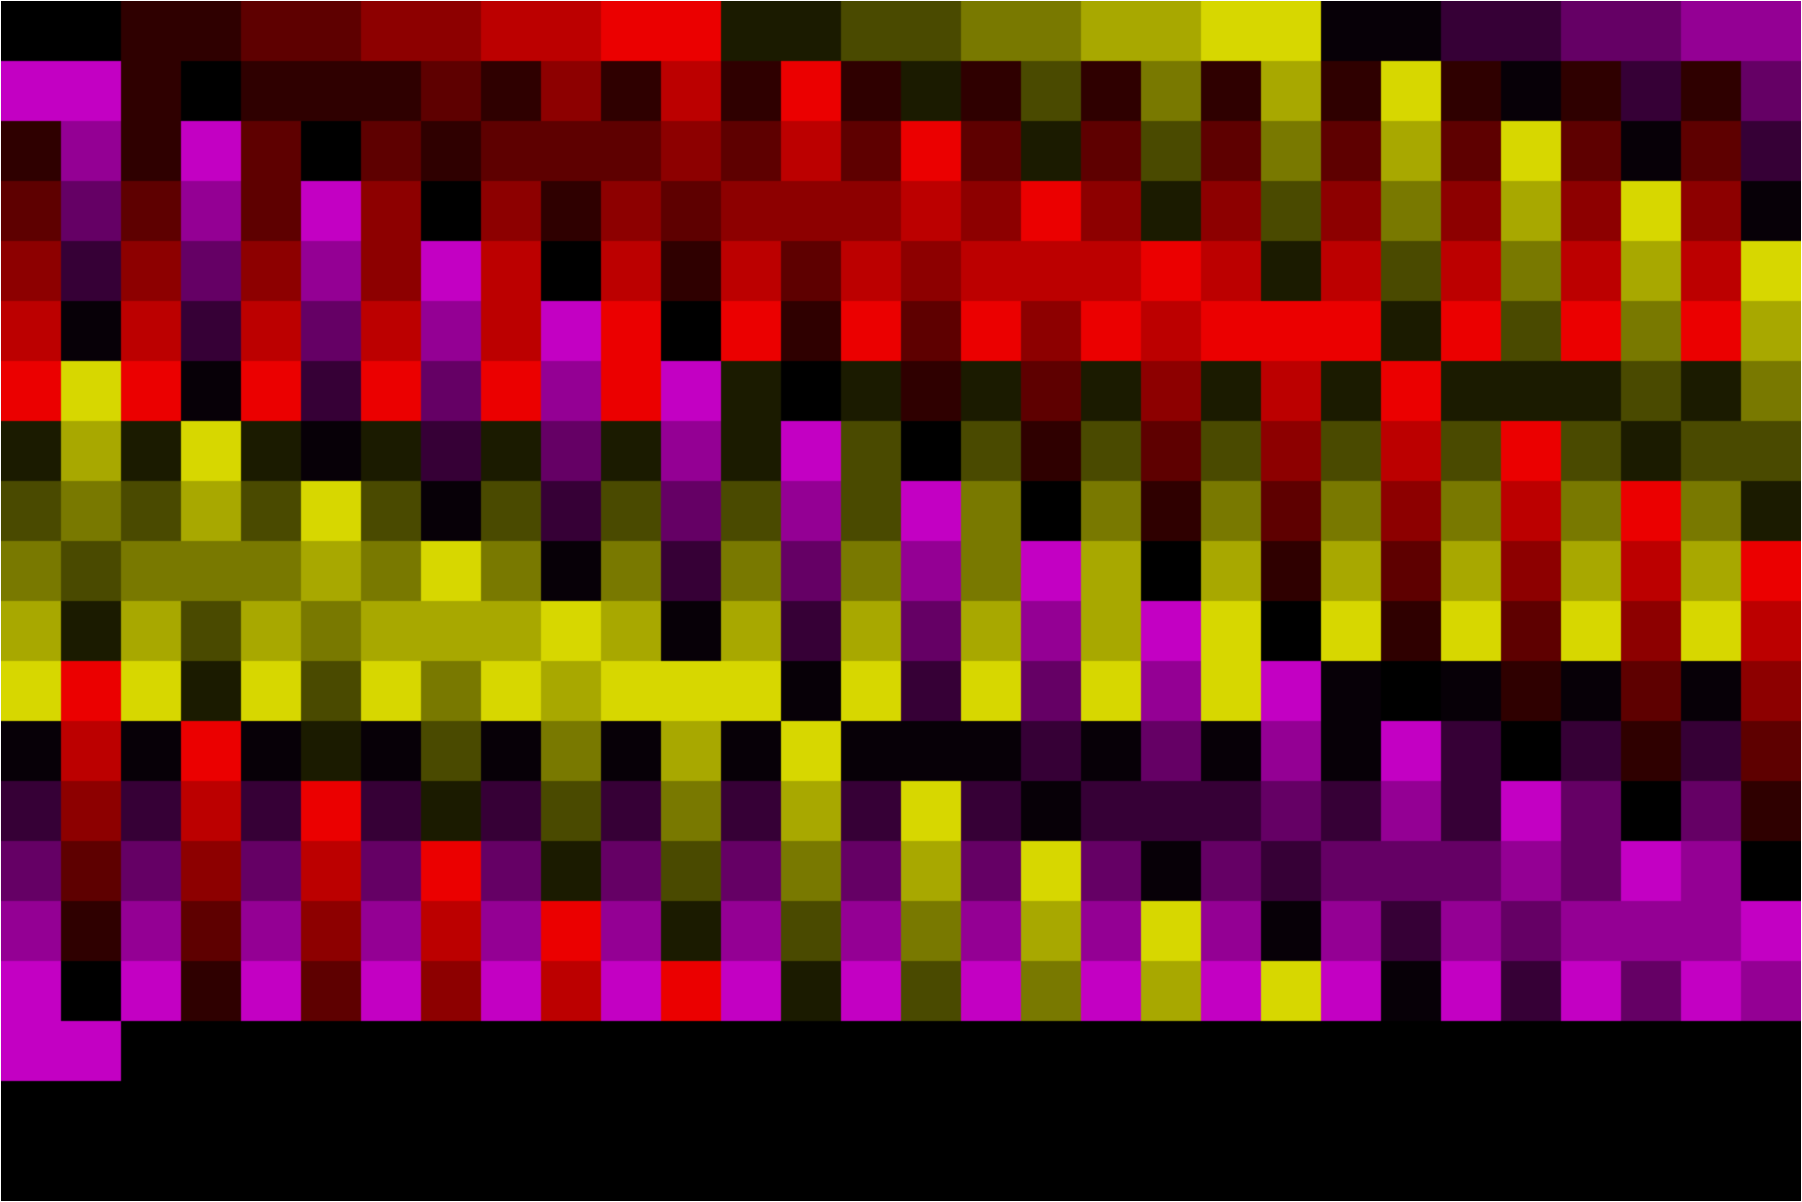
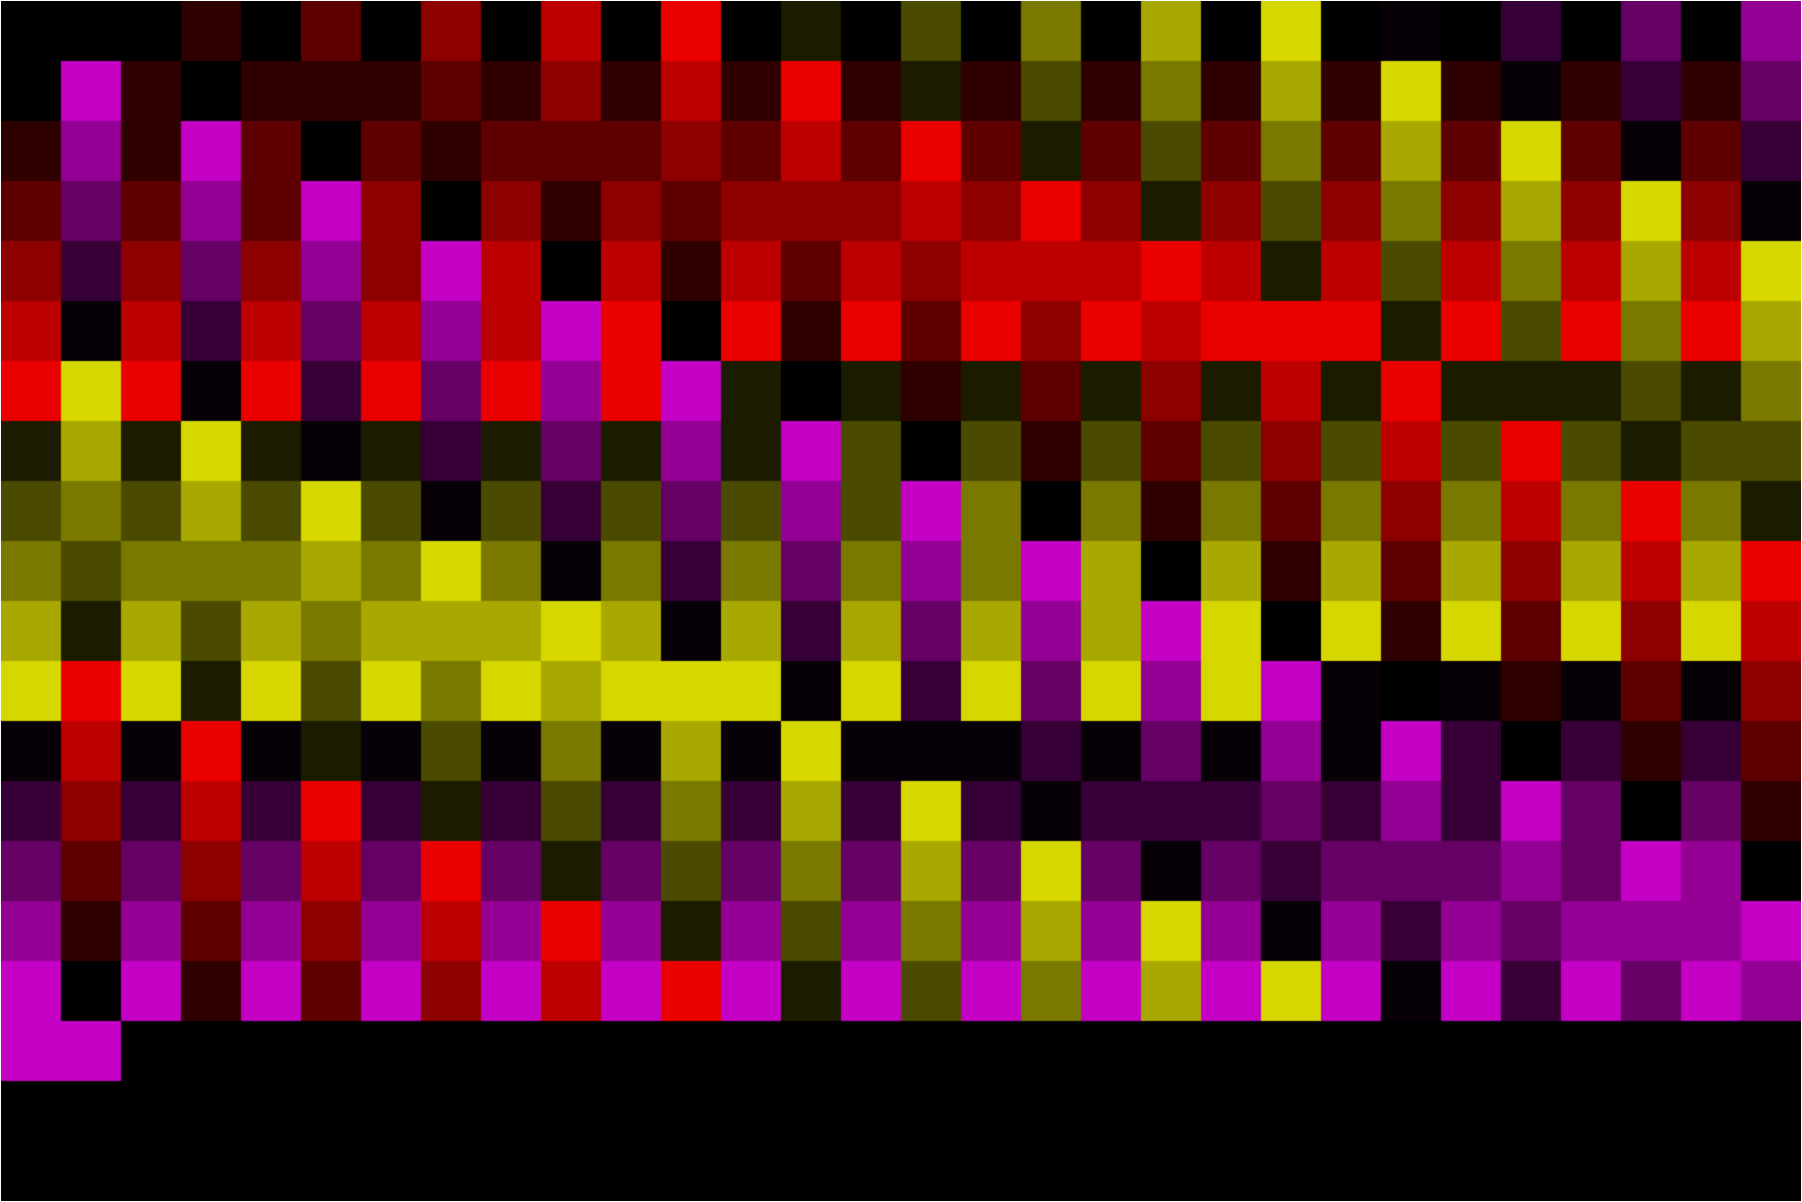
more tests required, fixed bug with conversion

diff --git a/pixelheist/client_test.html b/pixelheist/client_test.html
@@ -54,7 +54,7 @@ function convertHexStringToRgb(str) {
 function formatStringToIndividualHexNumbers(str) {
   const ret = [];
   if (str.length == 1) {
-    ret.push(str, str);
+    ret.push('0', str);
   } else {
     ret.push(str[0], str[1]);
   }
@@ -92,6 +92,7 @@ function foo(file) {
       hexArray.push(hex[0]);
       hexArray.push(hex[1]);
     }
+    console.log(hexArray.join(','));
     for(let j=0; j< hexArray.length; j++) {
       drawSquare(hexArray[j], j, ctx);
     }

diff --git a/pixelheist/client.html b/pixelheist/client.html
@@ -54,7 +54,7 @@ function convertHexStringToRgb(str) {
 function formatStringToIndividualHexNumbers(str) {
   const ret = [];
   if (str.length == 1) {
-    ret.push(str, str);
+    ret.push('0', str);
   } else {
     ret.push(str[0], str[1]);
   }

diff --git a/pixelheist/extract_data.py b/pixelheist/extract_data.py
@@ -30,6 +30,19 @@ def rescale(image):
     resized_image = cv2.resize(image, (1200, 800))
     return resized_image
 
+def identifyBlock(img, r, c, w):
+    x = r*w
+    y = c*w
+    cv2.rectangle(img, (x, y), (x+w, y+w), (0, 255, 0), 2)
+    # get the min area rect
+    rect = cv2.minAreaRect(c)
+    box = cv2.boxPoints(rect)
+    # convert all coordinates floating point values to int
+    box = np.int0(box)
+    # draw a red 'nghien' rectangle
+    cv2.drawContours(img, [box], 0, (0, 0, 255))
+    cv2.imshow('contour',img)
+
 def blockify(image, width):
     # we need to generate 'blocks' of pixels of width x width
     h, w, channels = image.shape # we don't use channels
@@ -44,14 +57,17 @@ def blockify(image, width):
     for r in range(num_rows):
         for c in range(num_cols):
             tally = 0
+            if counter == 14:
+                identifyBlock(image, r, c, width)
             for i in image[r*width:(r+1)*width]:
                 for j in i[c*width:(c+1)*width]:
                     tally += sum(j)
             # x = sum(sum(sum(v) for v in i[c*width:(c+1)*width]) for i in image[r*width:(r+1)*width])/scale
             ret.append(tally/scale)
+            counter += 1
     return ret
             
 if __name__ == '__main__':
     rimg = rescale(img)
     arr = blockify(rimg, int(sys.argv[1]) if len(sys.argv) > 1 else 5)
-    print([convertBGRToHexScale(a) for a in arr])
+    print([convertToPaletteScale(a) for a in arr])

diff --git a/pixelheist/README.md b/pixelheist/README.md
@@ -34,10 +34,12 @@
  * But could be used to 'download' binaries onto the client whilst bypassing some restrictions
 
 TODO:
- * take a screenshot of the screen programatically
+ * merge client/client_test code (c.f. point below)
+ * create test method to identify blocks on the roi (for debugging)
  * create a 'proper' project - complete with requirements.txt
    * and arguable something separate for js too (we can extract some of the functionality into separate modules, imported by the client)!
- * take some new screenshots now that the scale has changed...
+ * take a screenshot of the screen programatically
+ * DONE: take some new screenshots now that the scale has changed...
  * DONE: given x,y,w,h, extract the image data into pixels & colours
  * DONE: run it through openCV to find the bounding rectangle
  * DONE: map each hex character to an equally space colour in the RGB spectrum
